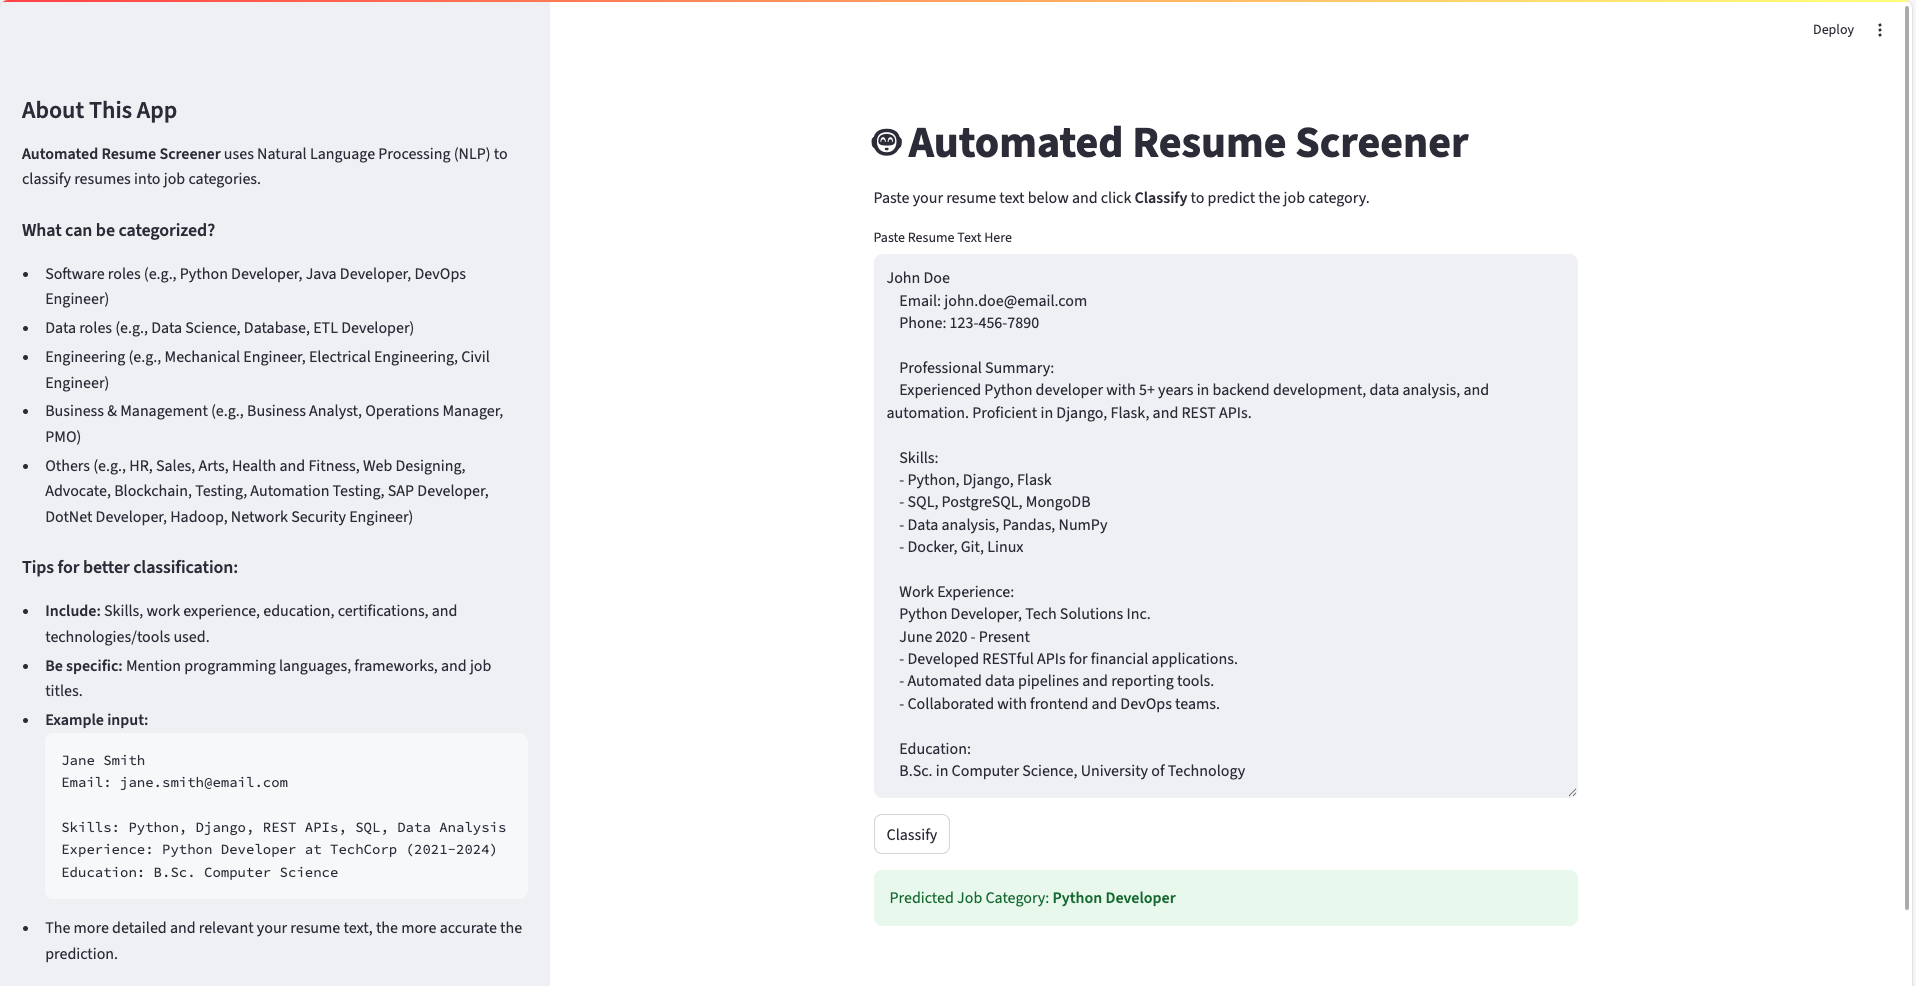
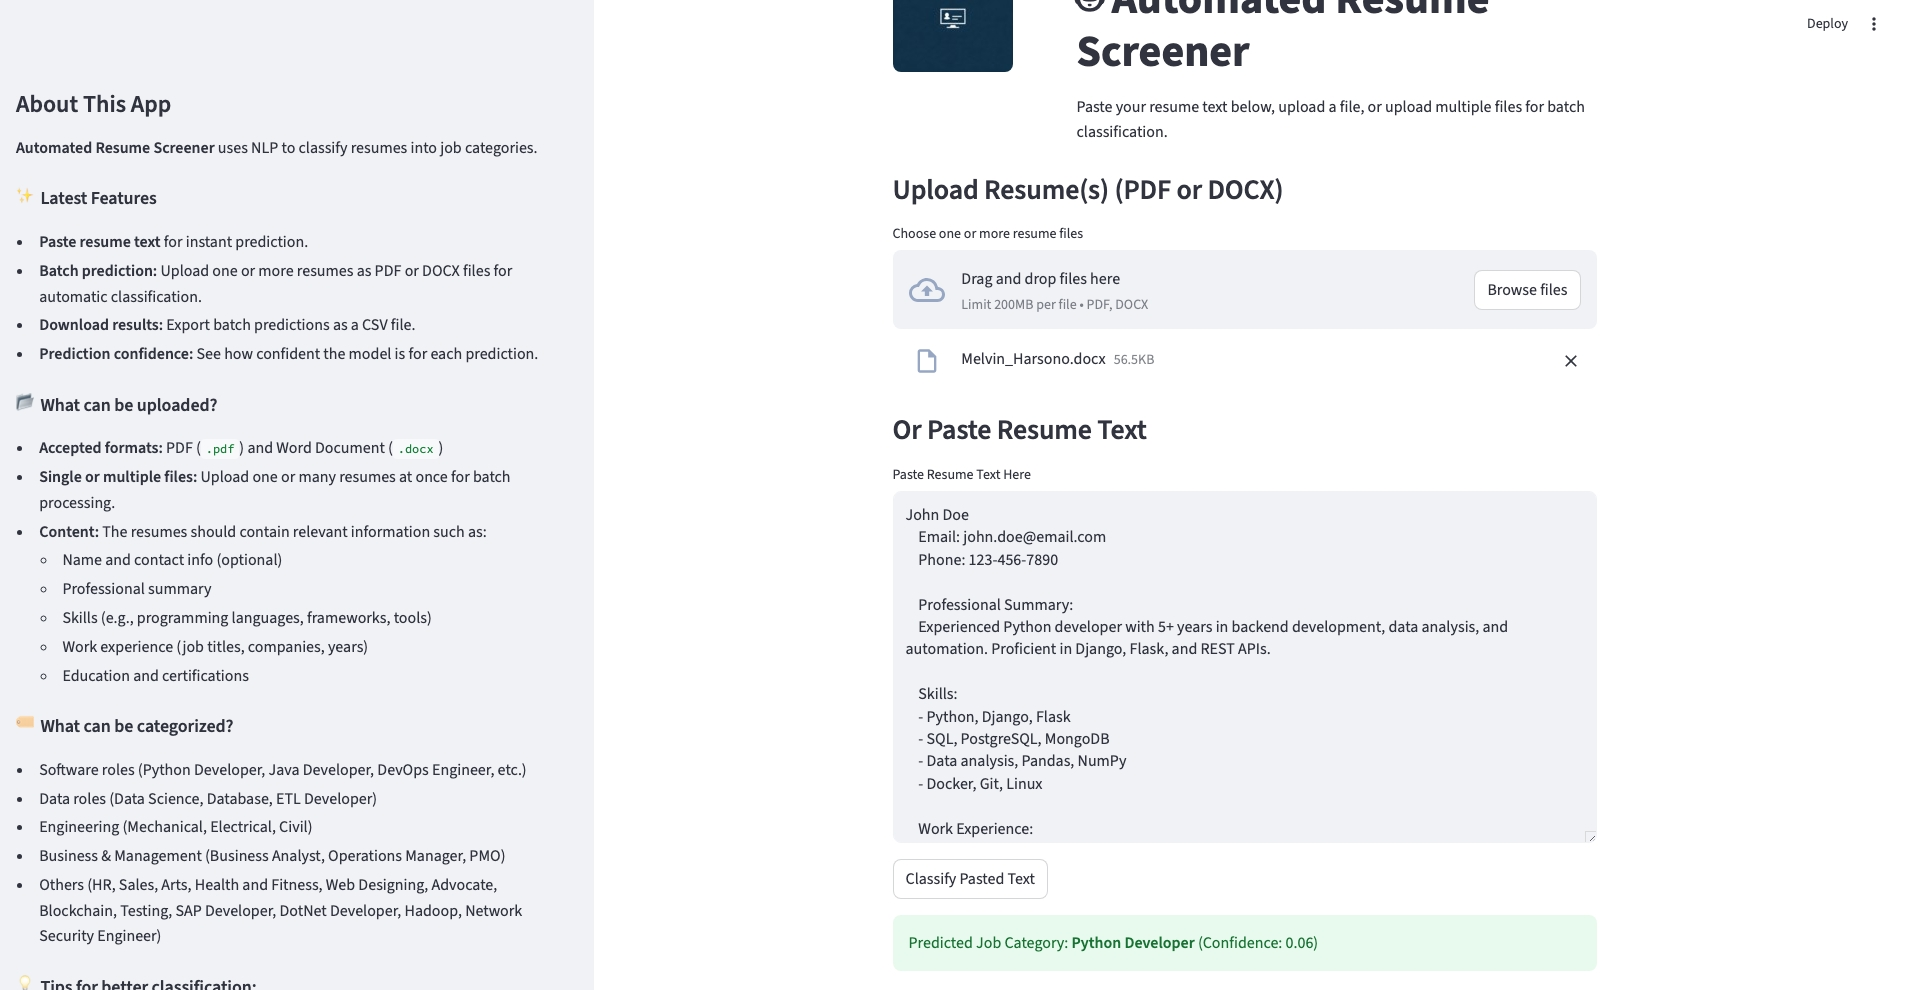
add batching features

diff --git a/app/app.py b/app/app.py
@@ -1,21 +1,51 @@
+import sys
+import os
+sys.path.append(os.path.abspath(os.path.join(os.path.dirname(__file__), '..')))
+
 import streamlit as st
 import joblib
 import re
+from utils.file_extractor import extract_text_from_pdf, extract_text_from_docx
+from utils.predictor import predict_with_confidence, batch_predict
+
+# Branding and layout
+col1, col2 = st.columns([1, 3])
+with col1:
+    st.image("figure/app_logo.jpg", width=120)
+with col2:
+    st.title("🤖 Automated Resume Screener")
+    st.markdown("Paste your resume text below, upload a file, or upload multiple files for batch classification.")
 
 # Sidebar information
 st.sidebar.title("About This App")
 st.sidebar.markdown(
     """
-    **Automated Resume Screener** uses Natural Language Processing (NLP) to classify resumes into job categories.
+    **Automated Resume Screener** uses NLP to classify resumes into job categories.
 
-    ### What can be categorized?
-    - Software roles (e.g., Python Developer, Java Developer, DevOps Engineer)
-    - Data roles (e.g., Data Science, Database, ETL Developer)
-    - Engineering (e.g., Mechanical Engineer, Electrical Engineering, Civil Engineer)
-    - Business & Management (e.g., Business Analyst, Operations Manager, PMO)
-    - Others (e.g., HR, Sales, Arts, Health and Fitness, Web Designing, Advocate, Blockchain, Testing, Automation Testing, SAP Developer, DotNet Developer, Hadoop, Network Security Engineer)
+    ### ✨ Latest Features
+    - **Paste resume text** for instant prediction.
+    - **Batch prediction:** Upload one or more resumes as PDF or DOCX files for automatic classification.
+    - **Download results:** Export batch predictions as a CSV file.
+    - **Prediction confidence:** See how confident the model is for each prediction.
 
-    ### Tips for better classification:
+    ### 📂 What can be uploaded?
+    - **Accepted formats:** PDF (`.pdf`) and Word Document (`.docx`)
+    - **Single or multiple files:** Upload one or many resumes at once for batch processing.
+    - **Content:** The resumes should contain relevant information such as:
+        - Name and contact info (optional)
+        - Professional summary
+        - Skills (e.g., programming languages, frameworks, tools)
+        - Work experience (job titles, companies, years)
+        - Education and certifications
+
+    ### 🏷 What can be categorized?
+    - Software roles (Python Developer, Java Developer, DevOps Engineer, etc.)
+    - Data roles (Data Science, Database, ETL Developer)
+    - Engineering (Mechanical, Electrical, Civil)
+    - Business & Management (Business Analyst, Operations Manager, PMO)
+    - Others (HR, Sales, Arts, Health and Fitness, Web Designing, Advocate, Blockchain, Testing, SAP Developer, DotNet Developer, Hadoop, Network Security Engineer)
+
+    ### 💡 Tips for better classification:
     - **Include:** Skills, work experience, education, certifications, and technologies/tools used.
     - **Be specific:** Mention programming languages, frameworks, and job titles.
     - **Example input:**
@@ -35,22 +65,58 @@ st.sidebar.markdown(
 model = joblib.load("models/resume_classifier.joblib")
 vectorizer = joblib.load("models/tfidf_vectorizer.joblib")
 
-# Clean input text
 def clean_input(text):
-    text = re.sub(r'[^a-zA-Z ]', '', text)
+    text = re.sub(r'[^a-zA-Z ]', ' ', text)
     return text.lower()
 
-st.title("🤖 Automated Resume Screener")
-st.markdown("Paste your resume text below and click **Classify** to predict the job category.")
+# File upload section
+st.subheader("Upload Resume(s) (PDF or DOCX)")
+uploaded_files = st.file_uploader(
+    "Choose one or more resume files",
+    type=["pdf", "docx"],
+    accept_multiple_files=True
+)
 
+# Single text input section
+st.subheader("Or Paste Resume Text")
 resume_text = st.text_area(
     "Paste Resume Text Here",
     height=350,
     placeholder="e.g.\nJohn Doe\nEmail: john.doe@email.com\n...\n"
 )
 
-if st.button("Classify"):
-    cleaned = clean_input(resume_text)
-    vect_input = vectorizer.transform([cleaned])
-    prediction = model.predict(vect_input)[0]
-    st.success(f"Predicted Job Category: **{prediction}**")
+# Process single text input
+if st.button("Classify Pasted Text"):
+    if resume_text.strip():
+        cleaned = clean_input(resume_text)
+        pred, proba = predict_with_confidence(model, vectorizer, cleaned)
+        st.success(f"Predicted Job Category: **{pred}** (Confidence: {proba:.2f})")
+    else:
+        st.warning("Please paste some resume text.")
+
+# Process uploaded files (batch or single)
+if uploaded_files:
+    texts = []
+    filenames = []
+    for file in uploaded_files:
+        if file.name.lower().endswith(".pdf"):
+            text = extract_text_from_pdf(file)
+        elif file.name.lower().endswith(".docx"):
+            text = extract_text_from_docx(file)
+        else:
+            text = ""
+        cleaned = clean_input(text)
+        texts.append(cleaned)
+        filenames.append(file.name)
+    if texts:
+        st.write("### Batch Prediction Results")
+        batch_results = batch_predict(model, vectorizer, texts)
+        batch_results.insert(0, "Filename", filenames)
+        st.dataframe(batch_results)
+        csv = batch_results.to_csv(index=False).encode('utf-8')
+        st.download_button(
+            label="Download Results as CSV",
+            data=csv,
+            file_name='resume_predictions.csv',
+            mime='text/csv',
+        )

diff --git a/utils/file_extractor.py b/utils/file_extractor.py
@@ -1,0 +1,25 @@
+import docx2txt
+import PyPDF2
+import io
+
+def extract_text_from_pdf(file):
+    pdf_reader = PyPDF2.PdfReader(file)
+    text = ""
+    for page in pdf_reader.pages:
+        page_text = page.extract_text()
+        if page_text:
+            text += page_text + "\n"
+    return text
+
+def extract_text_from_docx(file):
+    # docx2txt expects a path or a file-like object
+    if hasattr(file, "read"):
+        # If file is a file-like object, save to BytesIO and pass to docx2txt
+        file.seek(0)
+        temp_file = io.BytesIO(file.read())
+        temp_file.seek(0)
+        text = docx2txt.process(temp_file)
+        temp_file.close()
+        return text
+    else:
+        return docx2txt.process(file)

diff --git a/utils/predictor.py b/utils/predictor.py
@@ -1,0 +1,17 @@
+import pandas as pd
+
+def predict_with_confidence(model, vectorizer, text):
+    vect = vectorizer.transform([text])
+    pred = model.predict(vect)[0]
+    proba = model.predict_proba(vect).max()
+    return pred, proba
+
+def batch_predict(model, vectorizer, texts):
+    vect = vectorizer.transform(texts)
+    preds = model.predict(vect)
+    probas = model.predict_proba(vect).max(axis=1)
+    return pd.DataFrame({
+        "Resume": texts,
+        "Predicted Category": preds,
+        "Confidence": probas
+    })

diff --git a/README.md b/README.md
@@ -5,7 +5,12 @@ This project uses Natural Language Processing (NLP) to automatically classify re
 ## 🚀 Features
 
 - Resume text classification
+- **Two ways to predict:**  
+  - Paste resume text directly into the app  
+  - Upload one or more resume files (PDF or DOCX) for batch classification
 - Interactive web app with Streamlit
+- Download batch prediction results as CSV
+- Displays prediction confidence for each result
 - Trained on real resume data
 
 ## 🛠 Tech Stack
@@ -103,42 +108,42 @@ Classes with very few samples (less than 5) may have unreliable metrics and may 
 ### Step-by-step
 
 1. **Start the app** using the command above.
-2. **Copy and paste the following sample resume** into the "Paste Resume Text Here" input box:
 
-    ```
-    John Doe
-    Email: john.doe@email.com
-    Phone: 123-456-7890
+2. **Choose your input method:**
+   - **Paste Resume Text:**  
+     Copy and paste your resume text into the "Paste Resume Text Here" input box.
+   - **Upload Resume Files:**  
+     Upload one or more resumes in **PDF** or **DOCX** format using the file uploader.  
+     - You can upload a single file for individual prediction, or multiple files for batch prediction.
+     - The app will extract the text and classify each resume automatically.
 
-    Professional Summary:
-    Experienced Python developer with 5+ years in backend development, data analysis, and automation. Proficient in Django, Flask, and REST APIs.
+3. **Click the appropriate button:**
+   - For pasted text, click **"Classify Pasted Text"**.
+   - For uploaded files, the app will display batch results automatically.
 
-    Skills:
-    - Python, Django, Flask
-    - SQL, PostgreSQL, MongoDB
-    - Data analysis, Pandas, NumPy
-    - Docker, Git, Linux
-
-    Work Experience:
-    Python Developer, Tech Solutions Inc.
-    June 2020 - Present
-    - Developed RESTful APIs for financial applications.
-    - Automated data pipelines and reporting tools.
-    - Collaborated with frontend and DevOps teams.
-
-    Education:
-    B.Sc. in Computer Science, University of Technology
-    ```
-
-3. **Click the "Classify" button.**
 4. **View the result:**  
-   The app will display:
-
-   ```
-   Predicted Job Category: Python Developer
-   ```
+   - For single predictions, the app will display the predicted job category and the model's confidence.
+   - For batch predictions, a table will show the filename, predicted category, and confidence for each file.
+   - You can also **download the batch results as a CSV file**.
 
 5. **Example UI Output:**  
    ![Prediction UI Example](figure/prediction_ui.png)
 
-This demonstrates how to use the app to classify a resume and what kind of output to expect.
+---
+
+## 📂 What Can Be Uploaded?
+
+- **Accepted formats:** PDF (`.pdf`) and Word Document (`.docx`)
+- **Single or multiple files:** Upload one or many resumes at once for batch processing.
+- **Content:** The resumes should contain relevant information such as:
+  - Name and contact info (optional)
+  - Professional summary
+  - Skills (e.g., programming languages, frameworks, tools)
+  - Work experience (job titles, companies, years)
+  - Education and certifications
+
+The more detailed and relevant your resume content, the more accurate the classification will be.
+
+---
+
+This demonstrates how to use the app to classify a resume by pasting text or uploading files, and what kind of output to expect.
